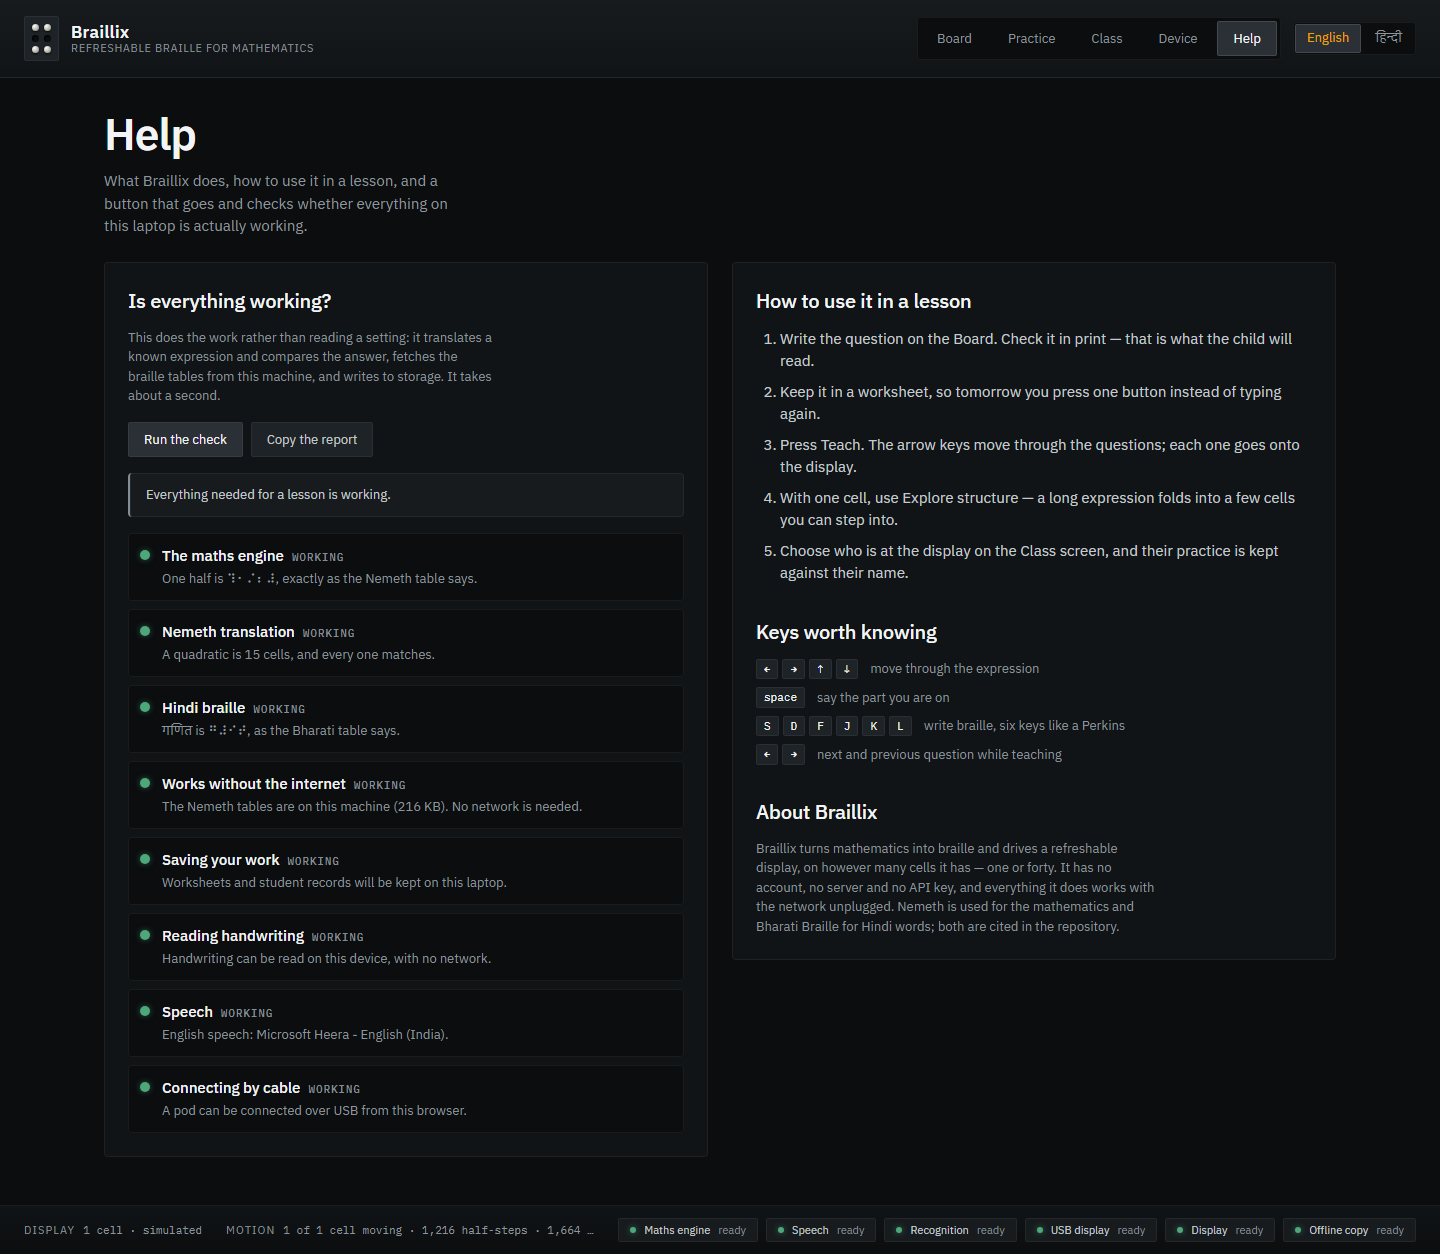
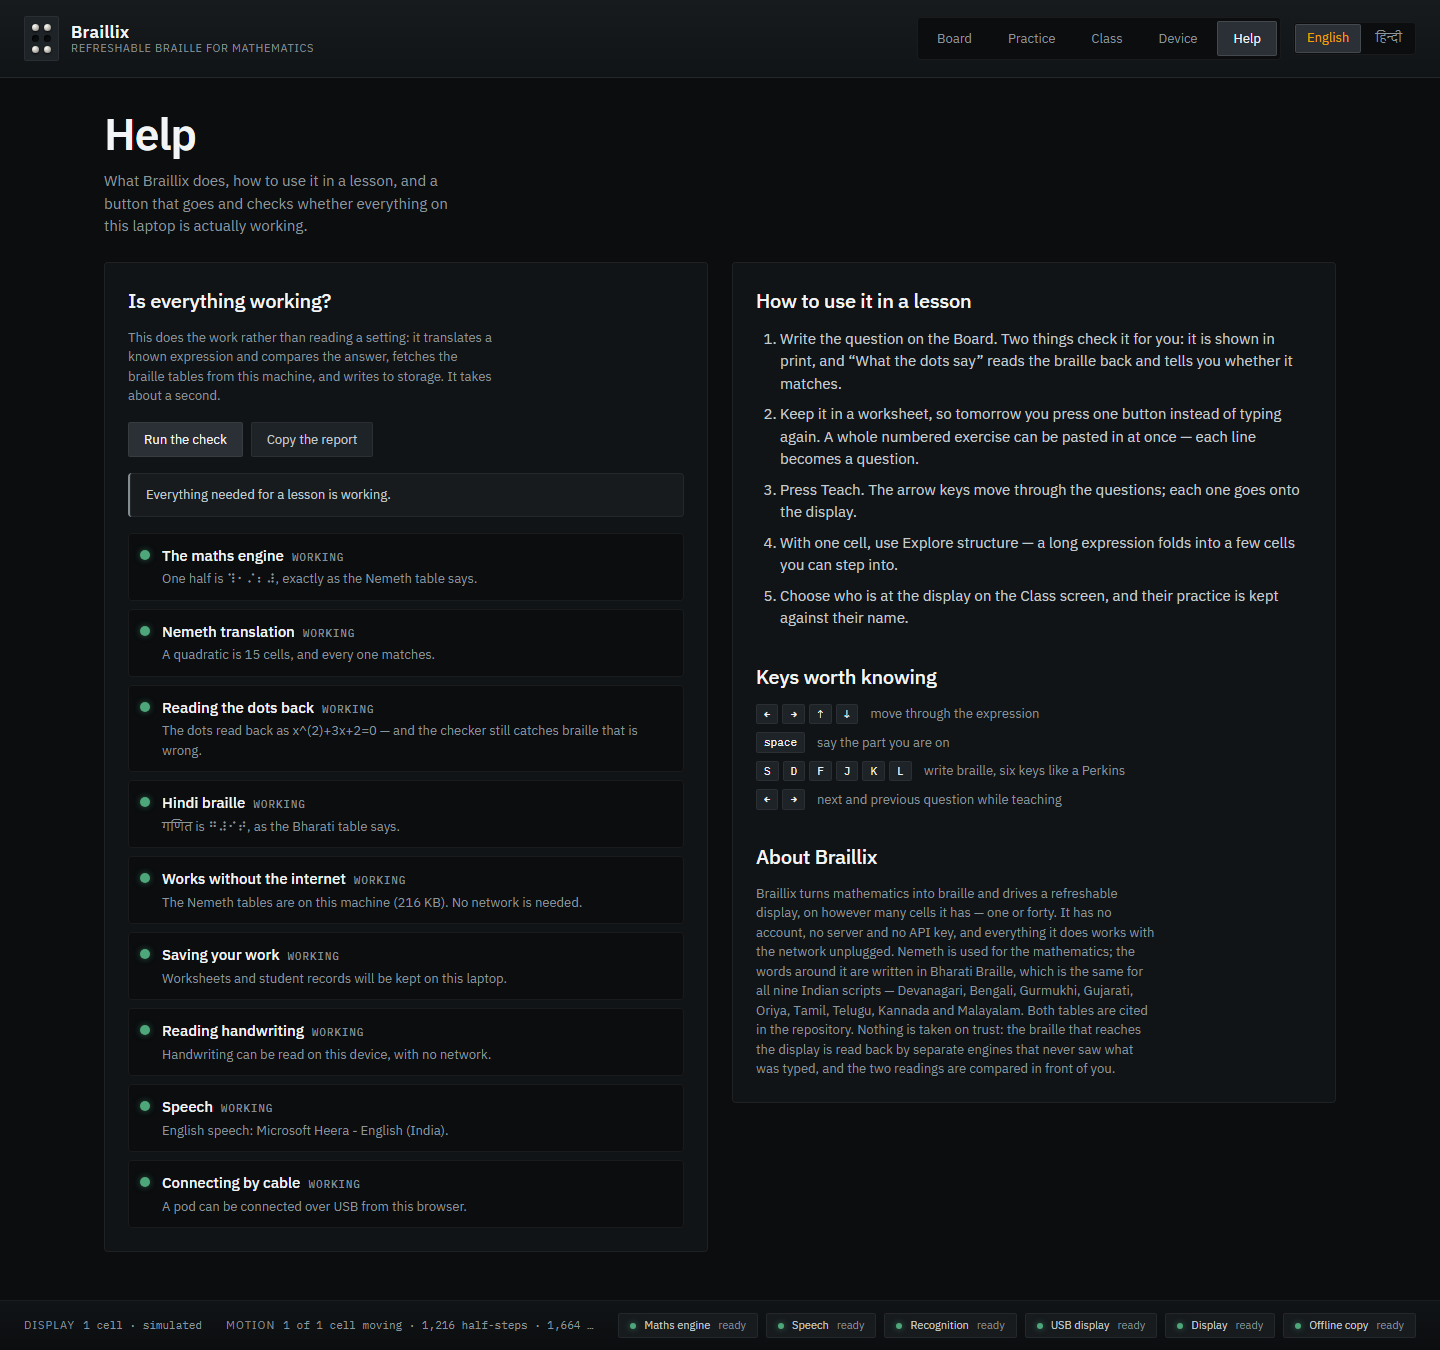
docs: screenshots and copy that match what the product now does
The README's screenshots were taken before the read-back panel existed, the
accuracy claim still said sixty-nine lines, and the Help section still promised
eight self-check rows. All three are now what they are: 149 syllabus lines
across 21 topics in five scripts, nine self-check rows including one that
feeds the verifier deliberately broken braille, and a Board screenshot with
the verdict on it.

diff --git a/README.md b/README.md
@@ -96,10 +96,11 @@ syllabus is what found the bugs listed in `ARC_PLAN.md` under Arc 11, including 
 the display as *o times f*, and `1/2 x b x h` — the area of a triangle — arriving as four variables
 with no multiplication in it anywhere.
 
-**A class, not just a display.** Worksheets a teacher writes and keeps, a Teach mode that puts each
-question on the display in turn, students with their own records, a printable sheet with print and
-braille together, and a `.brf` file for an embosser. All of it on the laptop, moving between
-laptops as a file — no account, no server, nothing to sign into.
+**A class, not just a display.** Worksheets a teacher writes and keeps — paste a whole numbered
+exercise and each line becomes a question — a Teach mode that puts each one on the display in turn,
+students with their own records, a printable sheet with print and braille together, and a `.brf`
+file for an embosser. All of it on the laptop, moving between laptops as a file — no account, no
+server, nothing to sign into.
 
 **The whole interface in Hindi**, switched in one control, with the braille standard unchanged.
 
@@ -110,13 +111,13 @@ laptops as a file — no account, no server, nothing to sign into.
 
 | | |
 |---|---|
-| **Read** — one cell, a whole quadratic, and the cam number for every dot | ![Read](docs/screenshots/read.png) |
+| **Board** — one cell, a whole quadratic, the cam number for every dot, and the dots read back | ![Board](docs/screenshots/read.png) |
 | **Explore structure** — the quadratic formula folded to five cells, ⠹ ⠿ ⠌ ⠿ ⠼ | ![Reader](docs/screenshots/reader.png) |
 | **Practice** — braille-first drills, answers written in six-key Perkins entry | ![Practice](docs/screenshots/practice.png) |
 | **Class** — worksheets a teacher writes and keeps, with print and braille together | ![Class](docs/screenshots/class.png) |
 | **Teach** — one question at a time, arrow keys, the display in sync | ![Teach](docs/screenshots/teach.png) |
 | **Help** — one button that goes and checks whether this laptop actually works | ![Help](docs/screenshots/help.png) |
-| **Device** — the discovered chain, and the cam calibration that de-risks demo day | ![Hardware](docs/screenshots/hardware.png) |
+| **Device** — the discovered chain, the cells it is driving, and the cam calibration | ![Device](docs/screenshots/hardware.png) |
 | **Cell atlas** — all 64 cam positions, printable, for holding against the physical cam | ![Atlas](docs/screenshots/atlas.png) |
 
 ## Why it is built this way
@@ -156,13 +157,16 @@ translation engine, the Bharati tables checked against the published charts, and
 invariants that fail the build if a cell count gets hardcoded, a translated string goes missing in
 one language, or hardware bit arithmetic escapes its one permitted file.
 
-[`docs/ACCURACY.md`](docs/ACCURACY.md) is the evidence: sixty-nine lines of real syllabus, from a
-single digit to a definite integral, with the braille each one produces. Check a row against a
-published Nemeth table — that is what it is there for.
+[`docs/ACCURACY.md`](docs/ACCURACY.md) is the evidence: **149 lines of real syllabus across 21
+topics**, from a single digit to a definite integral, in five scripts, with the braille each one
+produces — and, beside it, what that braille says when it is read back by an engine that never saw
+the input. Every row is one where the two agree. Check a row against a published Nemeth table; that
+is what it is there for.
 
 Inside the app, **Help → Is everything working?** runs the same kind of check on the machine in
 front of you: it translates a known expression and compares the answer, fetches the braille tables
-from disk, and writes to storage. Eight rows, each with the fix for anything that is not right.
+from disk, writes to storage, and hands the verifier braille it knows is broken to confirm the
+verifier still catches things. Nine rows, each with the fix for anything that is not right.
 
 ## Repository map
 
@@ -176,7 +180,7 @@ from disk, and writes to storage. Eight rows, each with the fix for anything tha
 | `tools/` | The virtual pod emulator, the model fetcher, and the accuracy report. |
 | `docs/` | The hardware handoff, the wire protocol, the integration notes. |
 
-Demo runbook: [`docs/DEMO.md`](docs/DEMO.md) — seven minutes, with what to say.
+Demo runbook: [`docs/DEMO.md`](docs/DEMO.md) — nine minutes, with what to say.
 
 Project documents: [`CLAUDE.md`](CLAUDE.md) (the rules) · [`ARCHITECTURE.md`](ARCHITECTURE.md) ·
 [`RESEARCH.md`](RESEARCH.md) · [`DECISIONS.md`](DECISIONS.md) · [`ARC_PLAN.md`](ARC_PLAN.md) ·

diff --git a/docs/DEMO.md b/docs/DEMO.md
@@ -155,6 +155,10 @@ Then the Hindi question again.
 > the mathematics, Bharati for the words, Grade-1 for English. The whole question is checked, or it
 > is not a verdict."
 
+**If they ask what happens when a lesson is running:** open Teach mode and say nothing about it.
+The verdict is silent there — a lesson is not a settings screen — and it speaks up only when the
+dots cannot be vouched for, in the last moment before a line goes under a child's fingers.
+
 **If somebody asks whether this ever caught anything:** yes, on the first run, in code that had
 passed every gate we had. `25% of 80` was reaching the display as *o times f* — an English word read
 as two variables. `1/2 x b x h`, the area of a triangle, was arriving as four variables with no
